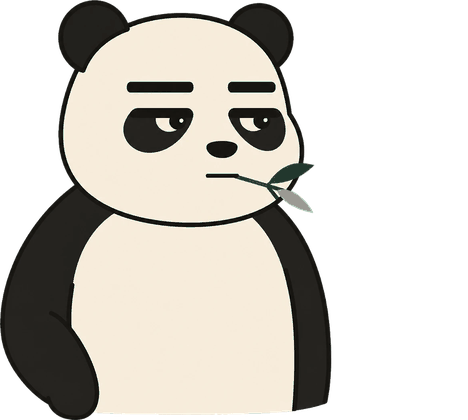
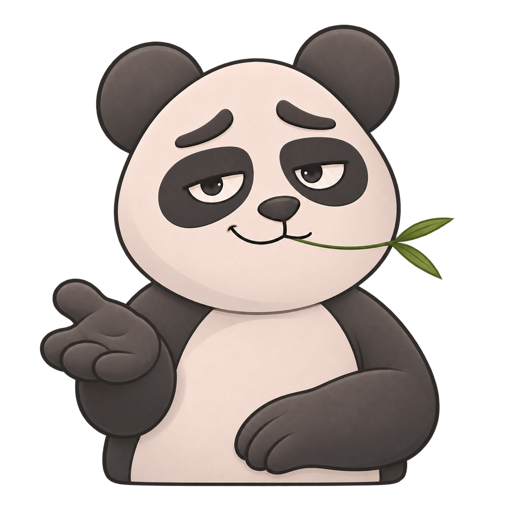
art: обновить восемь реакций панды в едином стиле

diff --git a/AGENTS.md b/AGENTS.md
@@ -2,7 +2,7 @@
 
 Главная: вопрос дня, четыре режима, приём недели. Профиль доступен в верхнем ряду главной, обновление приложения — в шапке профиля; долгий тап по названию открывает диагностику.
 
-Новая панда `panda_home_v2.png` используется на главной; игровые реакции пока остаются прежними. Тёмно-зелёные карточки и матовое золото кнопки заданы локально, для вопроса и «Своей игры» используется локальное матовое оформление `PlaySurface`.
+Панда `panda_home_v2.png` задаёт стиль главной и восьми игровых реакций: `took`, `almost`, `missed`, `clap`, `thumbs`, `neutral`, `notes`, `sincere`. Все используемые реакции обновлены в T8 16.11.2026, PNG 512×512 с прозрачным фоном; исходные имена сохранены, точки подключения прежние. Промпты — `docs/PANDA_ART_V2.json`. На промахе и при отсутствии серии — поддержка без осуждения. Тёмно-зелёные карточки и матовое золото кнопки заданы локально, для вопроса и «Своей игры» используется локальное матовое оформление `PlaySurface`.
 
 Не задавать фиксированную высоту карточкам с текстом: при узком экране или крупном системном шрифте режимы переходят в одну колонку. Результат вопроса дня читается из существующего журнала, название приёма — через существующий выбор приёма недели.
 
